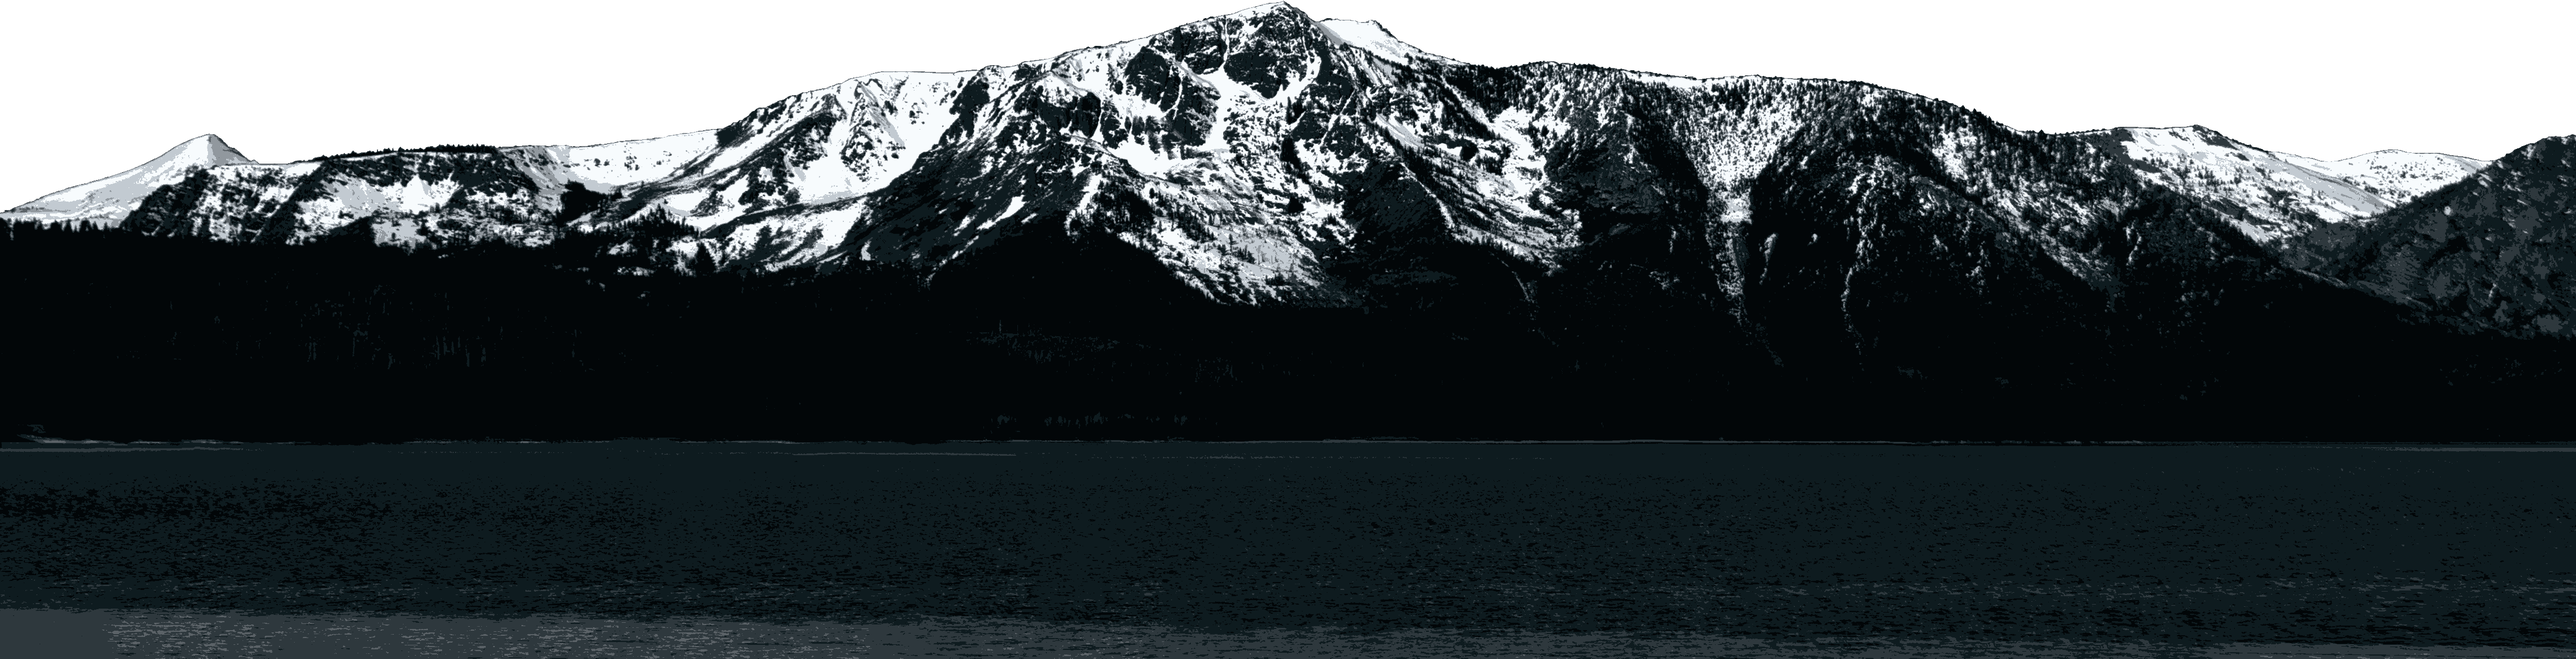
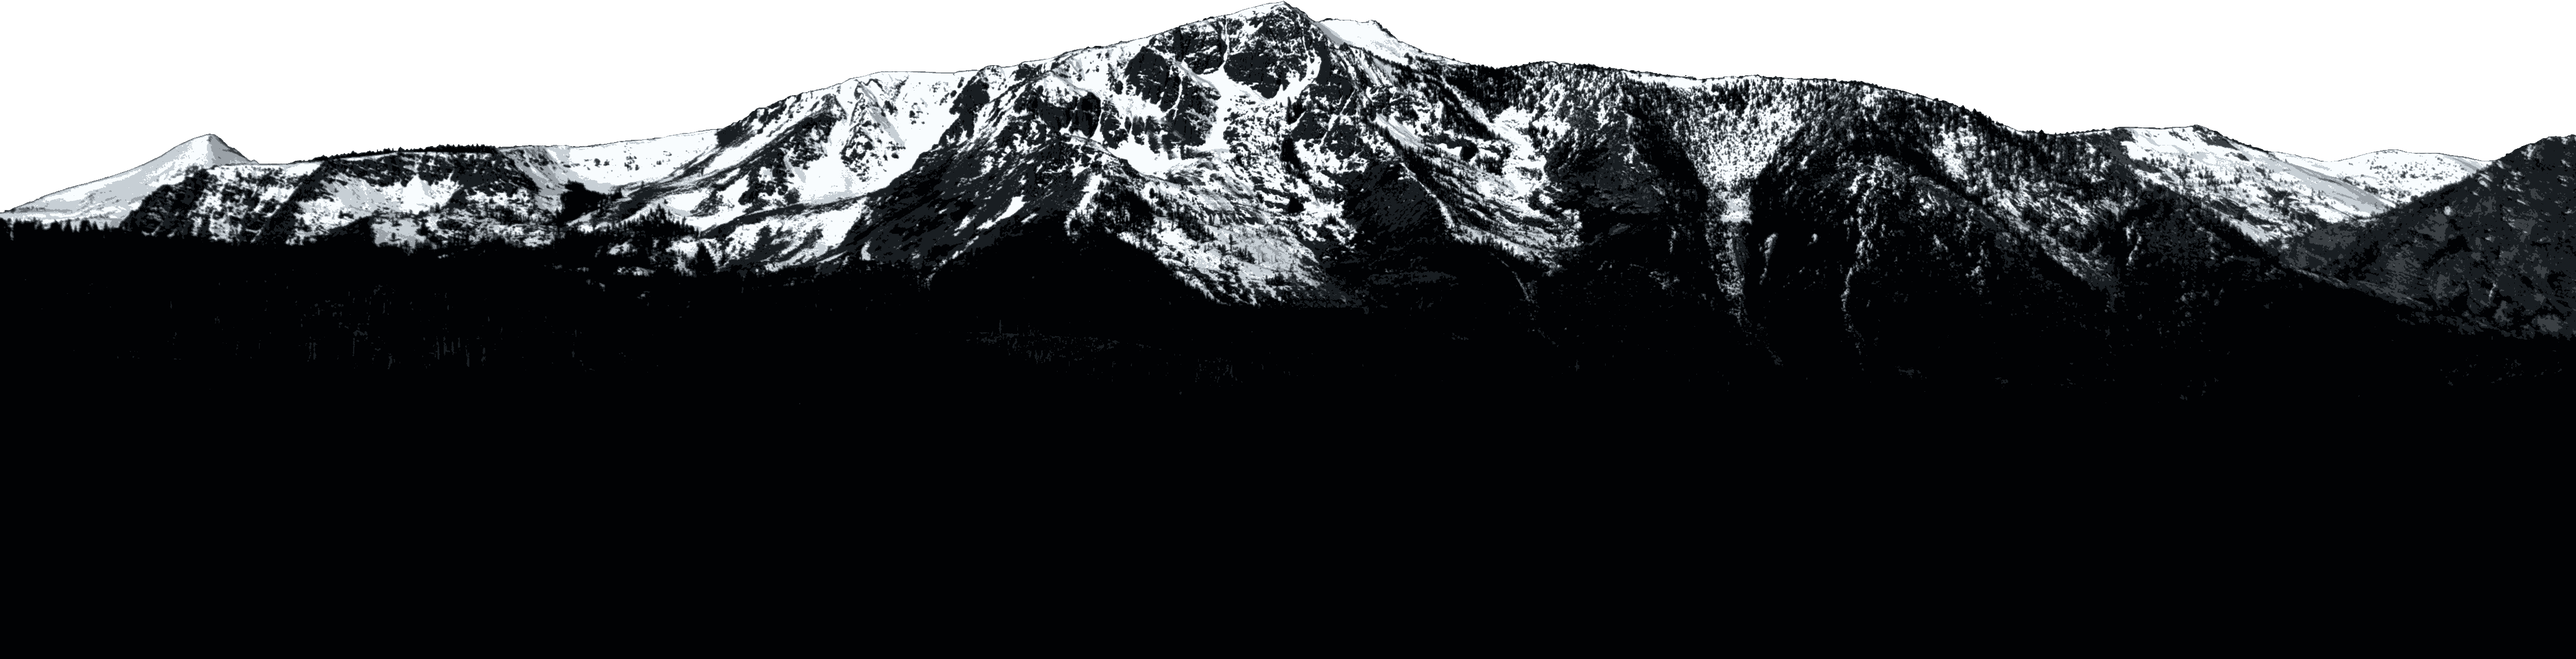
Separate lake from mountain; give lake a moonshine effect

diff --git a/_assets/stylesheets/pages/home.scss b/_assets/stylesheets/pages/home.scss
@@ -60,7 +60,8 @@ html, body {
 }
 
 .scene-sky,
-.scene-mountain {
+.scene-mountain,
+.scene-lake {
   background-repeat: no-repeat;
   position: absolute;
 }
@@ -112,7 +113,8 @@ $cloud-height: 834px * $cloud-scale;
   @include animation-timing-function(linear);
 }
 
-.scene-mountain {
+.scene-mountain,
+.scene-lake {
   background-position: center bottom;
   background-size: contain;
 
@@ -133,6 +135,7 @@ $cloud-height: 834px * $cloud-scale;
 }
 
 .scene-mountain { background-image: url(/images/scene/mountain.png); }
+.scene-lake     { background-image: url(/images/scene/lake.jpg); }
 
 @-webkit-keyframes scene-pulse-logo {
   0% { opacity: 0.25; }

diff --git a/index.html b/index.html
@@ -17,6 +17,7 @@ layout: default
     </li>
     <li class="layer" data-depth="0.18">
       <div class="scene-mountain"></div>
+      <div class="scene-lake"></div>
     </li>
     <li class="layer" data-depth="0.15">
       <div class="scene-logo"></div>
